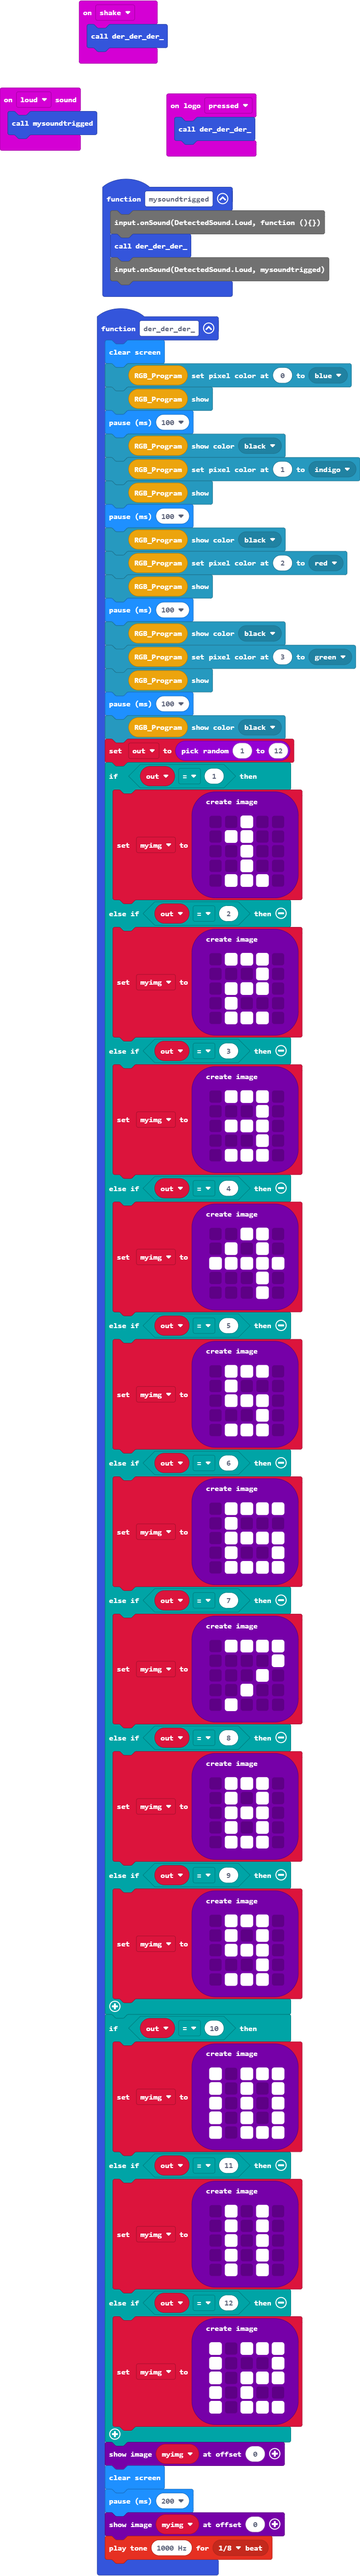
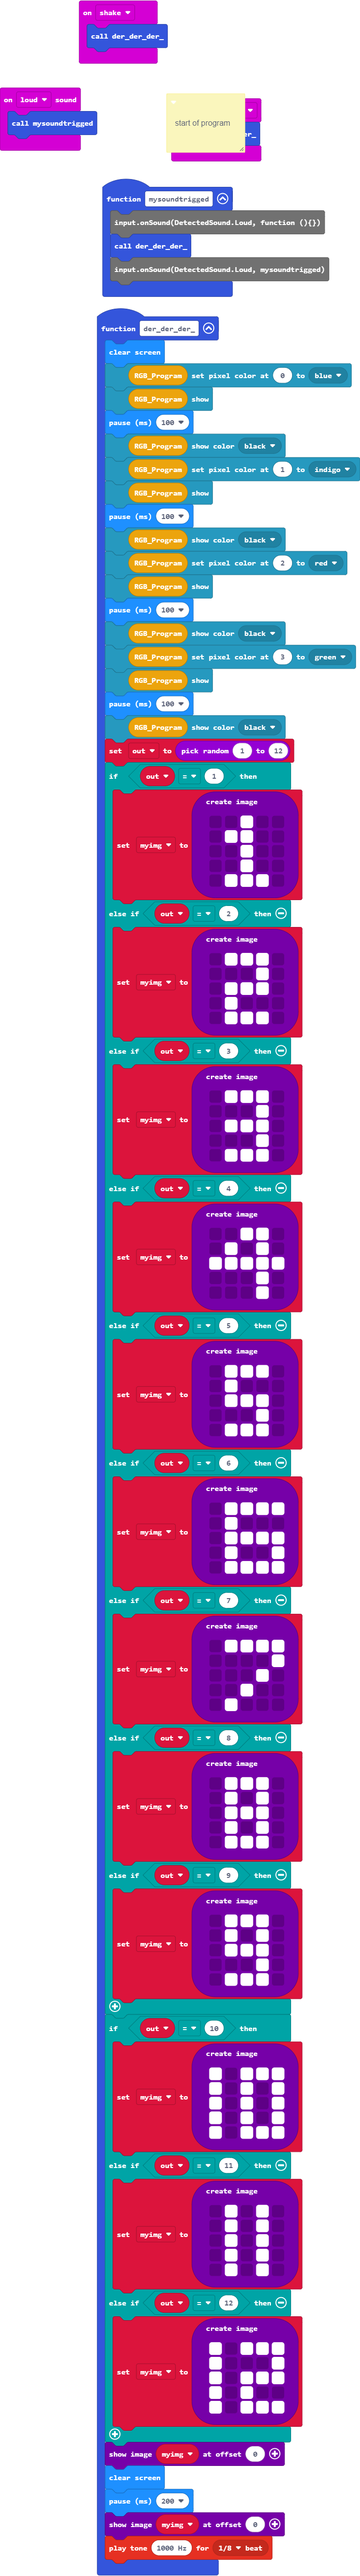
Update main.blocks, main.ts

Changed region(s): [[0.4375, 0.0311, 0.75, 0.0623]]

diff --git a/main.ts b/main.ts
@@ -11,6 +11,9 @@ input.onSound(DetectedSound.Loud, function () {
 input.onGesture(Gesture.Shake, function () {
     der_der_der_()
 })
+/**
+ * start of program
+ */
 input.onLogoEvent(TouchButtonEvent.Pressed, function () {
     der_der_der_()
 })
